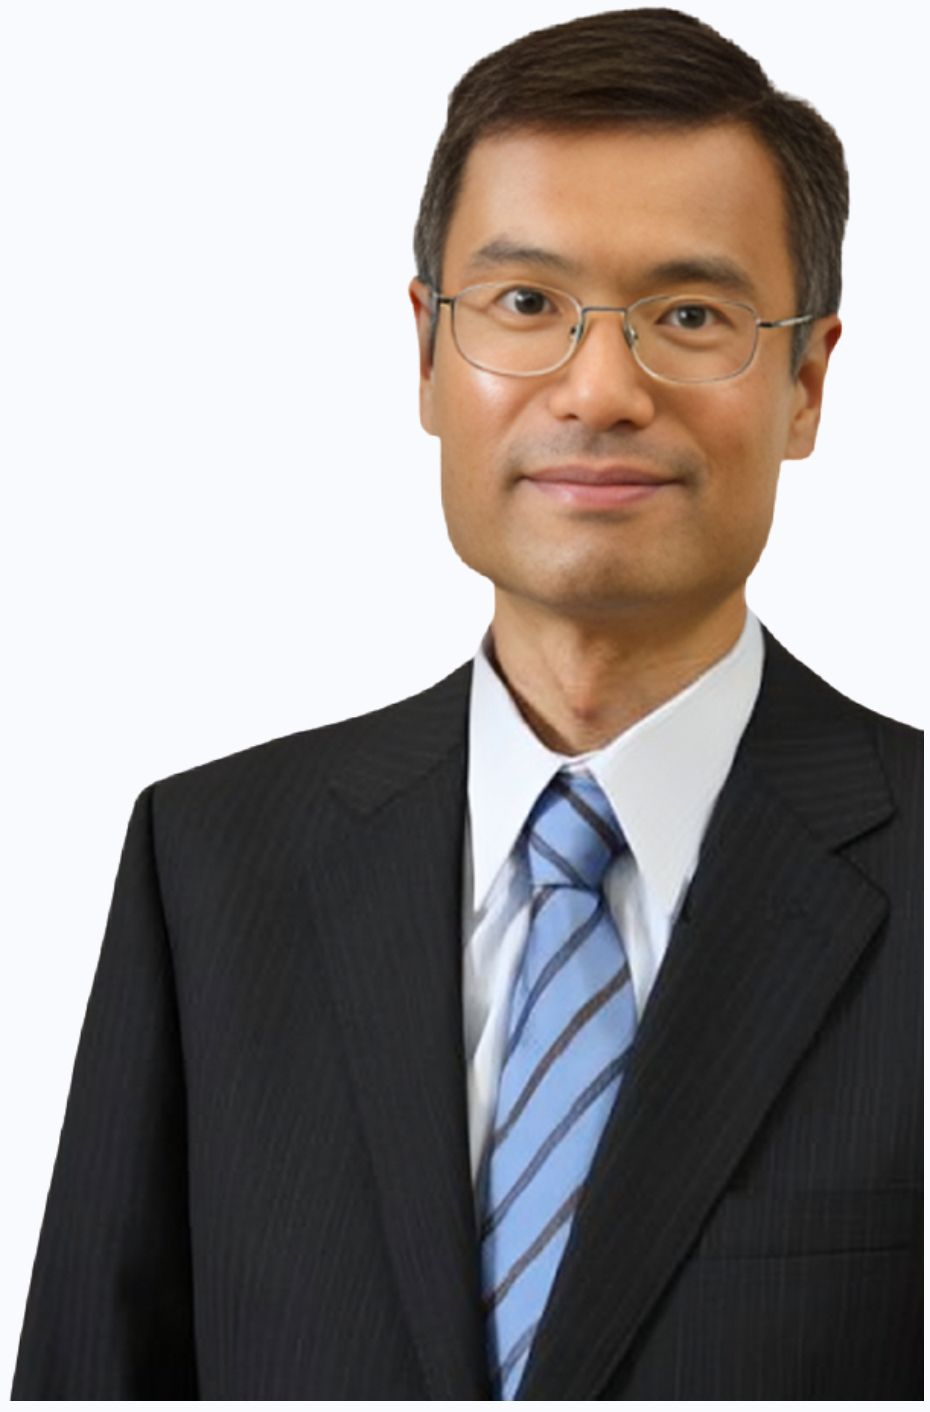
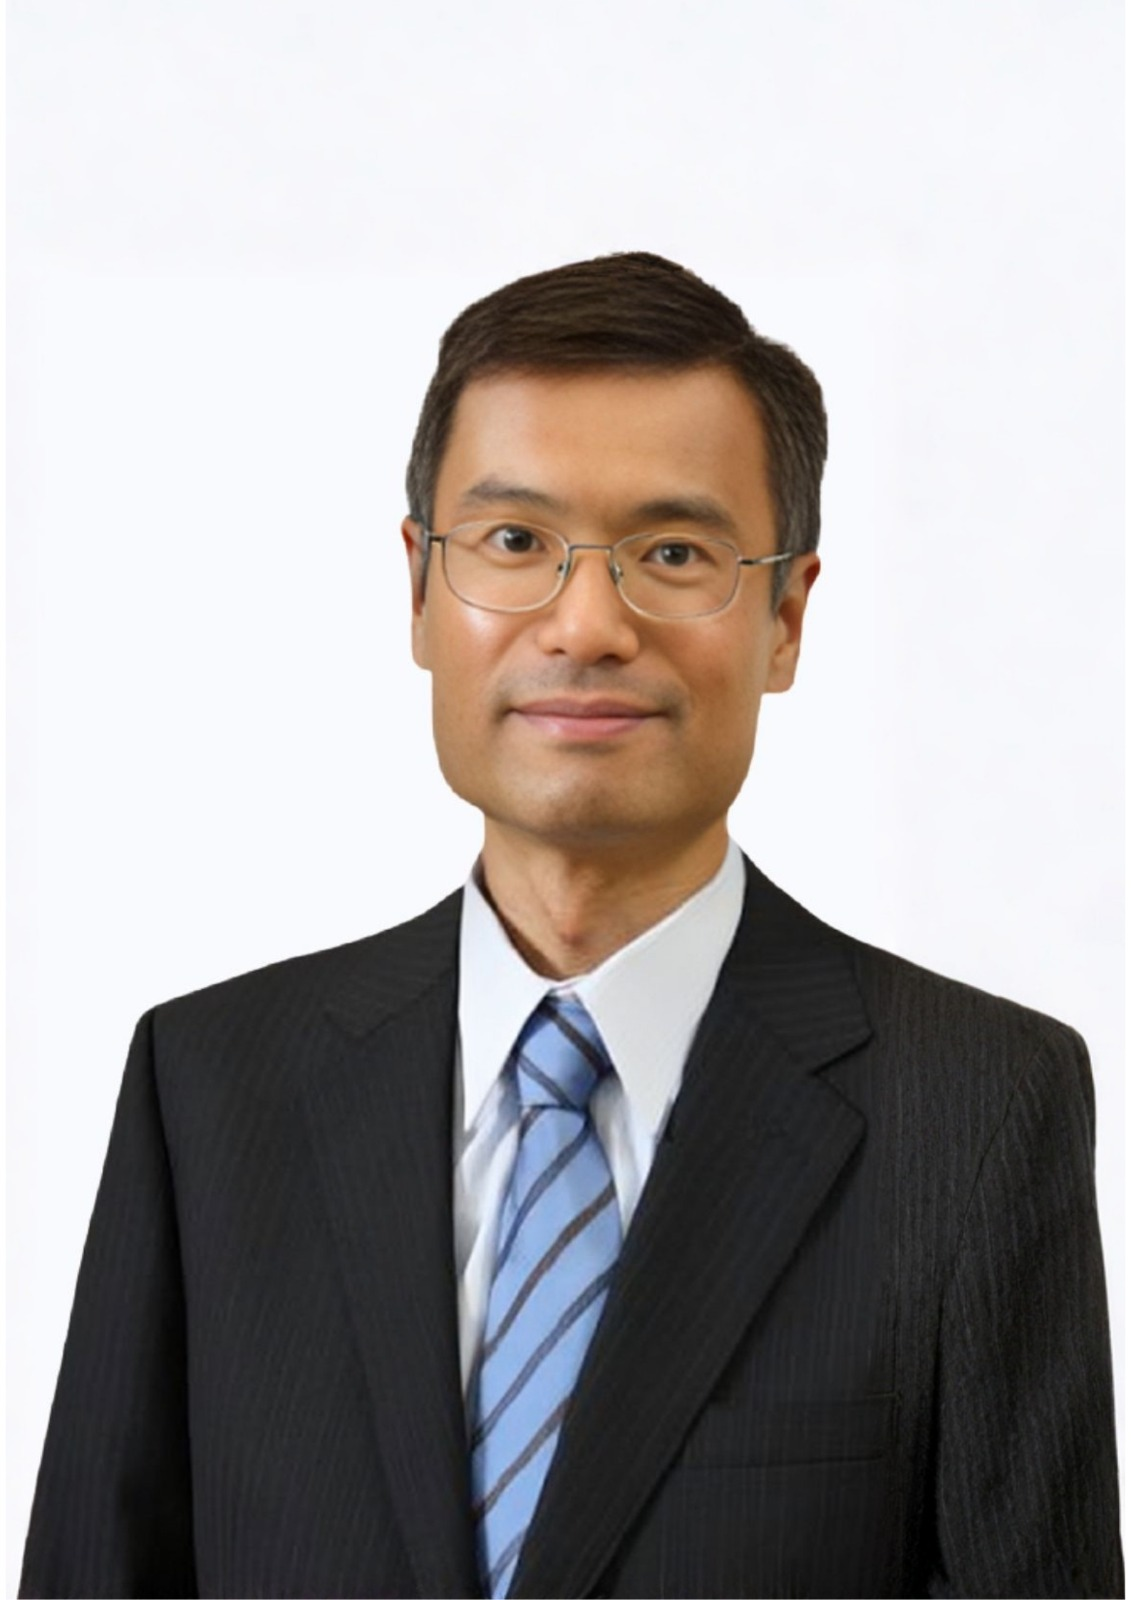
update speaker

diff --git a/app/page.tsx b/app/page.tsx
@@ -33,6 +33,12 @@ const keynoteSpeakers: Speaker[] = [
     imageSrc: "/speakers/nobuo-funabiki.jpg",
   },
   {
+    name: "Prof. Jing-Ming Guo",
+    role: "National Taiwan University of Science and Technology",
+    note: "(To be confirmed)",
+    imageSrc: "/speakers/jing-ming.jpg",
+  },
+  {
     name: "Prof., Drs., Nur Iriawan, M.IKom., Ph.D.",
     role: "Institut Teknologi Sepuluh November - Indonesia",
     note: "(To be confirmed)",
@@ -304,7 +310,7 @@ export default function Home() {
               <h2 className="text-3xl font-black tracking-tight">Keynote Speakers</h2>
             </div>
 
-            <div className="mt-8 grid gap-4 sm:grid-cols-2 lg:grid-cols-2">
+            <div className="mt-8 grid gap-4 sm:grid-cols-2 lg:grid-cols-3">
               {keynoteSpeakers.map((s) => (
                 <div key={s.name} className="rounded-2xl border border-black/5 bg-white p-4 shadow-sm">
                   <div className="flex h-64 w-full items-center justify-center overflow-hidden rounded-2xl border border-black/5 bg-[radial-gradient(400px_260px_at_30%_20%,rgba(99,49,147,0.25)_0%,rgba(99,49,147,0)_60%),radial-gradient(380px_240px_at_80%_20%,rgba(14,165,164,0.22)_0%,rgba(14,165,164,0)_60%),linear-gradient(135deg,rgba(17,17,36,0.10)_0%,rgba(17,17,36,0.04)_100%)] sm:h-72">
@@ -365,29 +371,28 @@ export default function Home() {
                 <div className="mt-4 rounded-2xl border border-black/5 bg-black/[0.02] p-4">
                   <div className="flex flex-wrap items-center justify-between gap-2 text-sm">
                     <span className="font-bold text-zinc-600">Bank Name</span>
-                    <strong className="font-black">BANK MANDIRI</strong>
+                    <strong className="font-black">BANK BCA</strong>
                   </div>
                   <div className="mt-2 flex flex-wrap items-center justify-between gap-2 text-sm">
                     <span className="font-bold text-zinc-600">Account Name</span>
-                    <strong className="font-black">Mrs. NURUL AWALIYAH MUKHL</strong>
+                    <strong className="font-black">Mrs. Meisya Vira Amelia</strong>
                   </div>
                   <div className="mt-2 flex flex-wrap items-center justify-between gap-2 text-sm">
                     <span className="font-bold text-zinc-600">Account Number</span>
-                    <strong className="font-black">1410022806566</strong>
+                    <strong className="font-black">6750928704</strong>
                   </div>
                   <div className="mt-2 flex flex-wrap items-center justify-between gap-2 text-sm">
                     <span className="font-bold text-zinc-600">Swift code</span>
-                    <strong className="font-black">BMRIIDJA</strong>
+                    <strong className="font-black">CENAIDJAXXX</strong>
                   </div>
                 </div>
 
                 <p className="mt-4 text-sm text-zinc-700">
                   Address of Bank:
                   <br />
-                  Bank Mandiri KCM Sidoarjo Sukodono
+                  BCA KCP Rungkut Mapan
                   <br />
-                  Jalan Raya Karang Nongko Sukodono, Bukit Permata Sukodono, Blok Ruko 16 Anggaswangi Anggaswangi, Anggaswangi,
-                  Pekarungan, Kec. Sukodono, Kabupaten Sidoarjo, Jawa Timur 61258
+                  Raya Rungkut Mapan / Yakaya, Jl. Rungkut Mapan Utara No.09 Blok BA 08, Surabaya, Jawa Timur 60293
                 </p>
 
                 <p className="mt-3 text-sm font-bold text-zinc-800">
